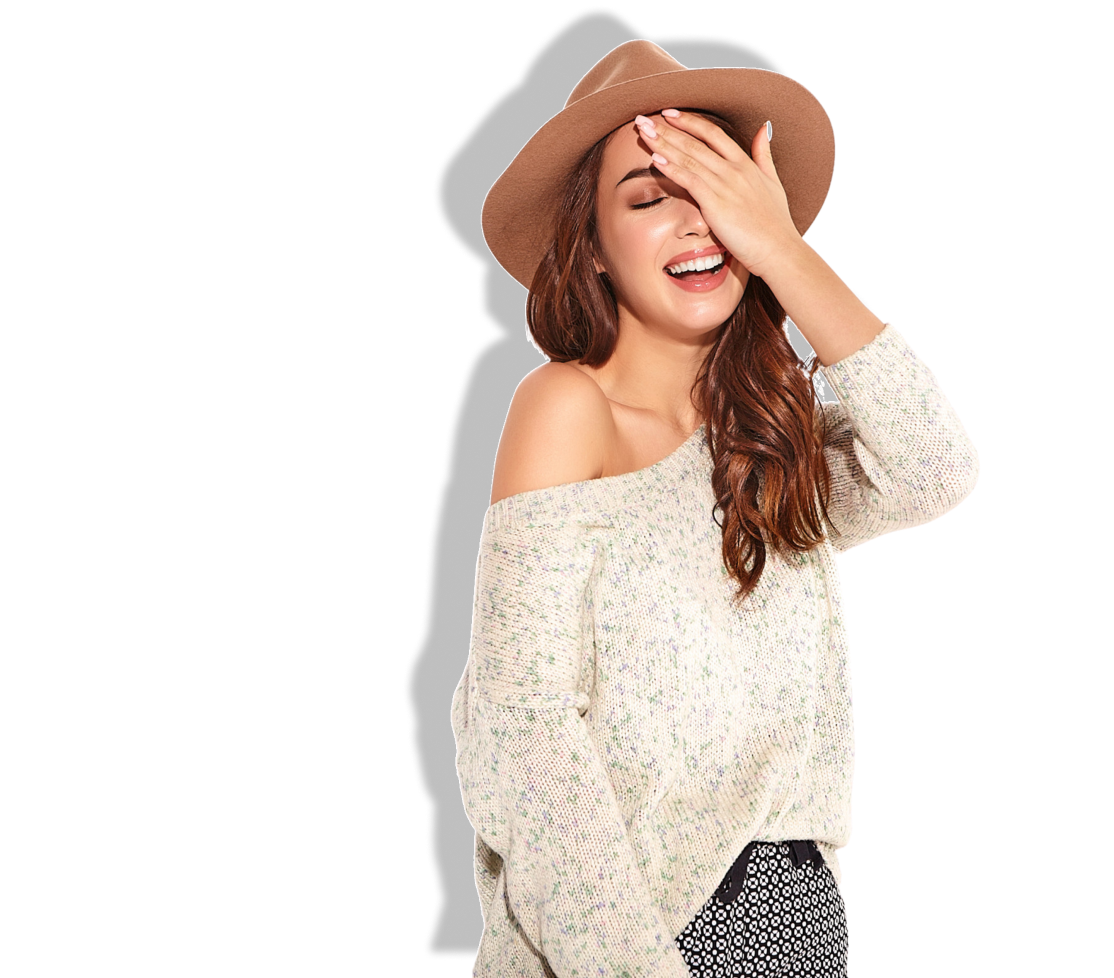
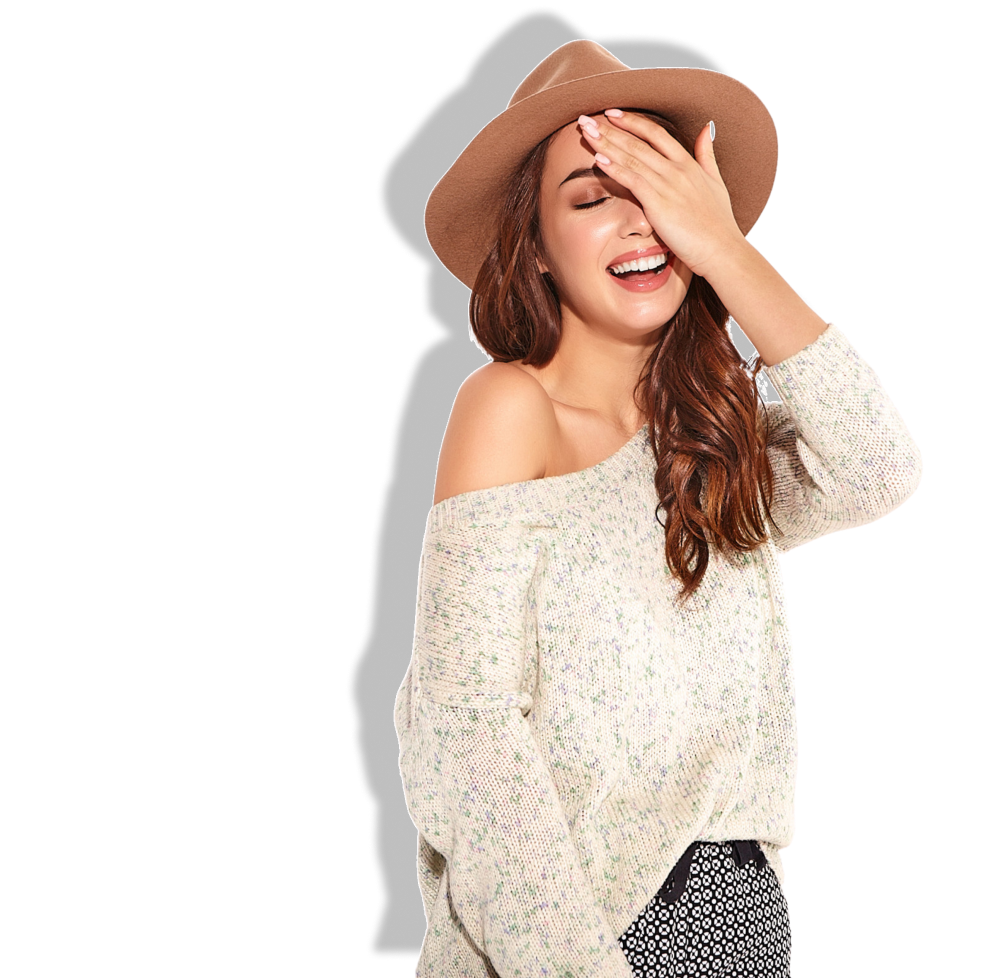
new section update

Changed region(s): [[0.34, 0.0307, 0.9272, 1.0], [0.4636, 0.1227, 0.4945, 0.1534], [0.4327, 0.092, 0.4636, 0.1227]]

diff --git a/demo/fashion-four/css/style.css b/demo/fashion-four/css/style.css
@@ -53,22 +53,8 @@
     font-display: swap;
     font-family: 'Josefin Sans';
     font-style: normal;
-    font-weight: 500;
-    src: url('../fonts/josefin-sans/josefin-sans-v32-latin-500.woff2') format('woff2');
-}
-@font-face {
-    font-display: swap;
-    font-family: 'Josefin Sans';
-    font-style: normal;
     font-weight: 600;
     src: url('../fonts/josefin-sans/josefin-sans-v32-latin-600.woff2') format('woff2');
-}
-@font-face {
-    font-display: swap;
-    font-family: 'Josefin Sans';
-    font-style: normal;
-    font-weight: 700;
-    src: url('../fonts/josefin-sans/josefin-sans-v32-latin-700.woff2') format('woff2');
 }
 
 /* Default CSS */
@@ -77,7 +63,7 @@
     --main-color: #FF5047;
 
     /* Text Color */
-    --text-color: #13172B;
+    --text-color: #000;
 }
 
 * {
@@ -87,6 +73,17 @@
 
 html {
     scroll-behavior: smooth;
+}
+
+@media (min-width: 1400px) {
+    .container,
+    .container-lg,
+    .container-md,
+    .container-sm,
+    .container-xl,
+    .container-xxl {
+        max-width: 1705px;
+    }
 }
 
 body,
@@ -148,17 +145,16 @@ button:focus {
 }
 
 /* Buttons */
-.fsnf__button__a,
-.fsnf__button__b {
+.fsnf__button__a {
     position: relative;
-    font-size: 16px;
-    line-height: 24px;
-    font-weight: 600;
+    font-size: 30px;
+    line-height: 30px;
+    font-weight: 400;
     font-family: 'Jost', sans-serif;
-    padding: 10px 25px;
+    padding: 13px 30px;
     text-transform: capitalize;
     background: transparent;
-    border-radius: 5px;
+    border-radius: 50px;
     overflow: hidden;
     transition: 0.3s;
     -moz-transition: 0.3s;
@@ -167,52 +163,12 @@ button:focus {
     -o-transition: 0.3s;
     user-select: none;
     color: #FFF !important;
+    background: #8F7777;
     display: inline-block;
 }
 
-.fsnf__button__a::before,
-.fsnf__button__b::before {
-    position: absolute;
-    content: '';
-    top: 0;
-    left: 0;
-    z-index: -2;
-    width: 100%;
-    height: 100%;
-    background: #000;
-}
-
-.fsnf__button__a::after,
-.fsnf__button__b::after {
-    position: absolute;
-    top: 50%;
-    left: 50%;
-    transform: translate(-50%, -50%);
-    z-index: -1;
-    content: '';
-    height: 0;
-    width: 0;
-    transition: 0.3s;
-    -moz-transition: 0.3s;
-    -webkit-transition: 0.3s;
-    -ms-transition: 0.3s;
-    -o-transition: 0.3s;
-    border-radius: 5px;
-}
-
-.fsnf__button__a:hover::after,
-.fsnf__button__b:hover::after {
-    height: 100%;
-    width: 100%;
+.fsnf__button__a:hover {
     background: var(--main-color);
-}
-
-.fsnf__button__b::before {
-    background: var(--main-color);
-}
-
-.fsnf__button__b:hover::after {
-    background: #000;
 }
 
 /* Section Title */
@@ -901,7 +857,7 @@ input[type="radio"]:checked::before {
 .fsnf__header__wrapper .header__ctas .fsnf__cart__product h4 {
     font-size: 16px;
     line-height: 20px;
-    font-weight: 500;
+    font-weight: 400;
     font-family: 'Jost', sans-serif;
     text-transform: capitalize;
     border: none;
@@ -964,7 +920,7 @@ input[type="radio"]:checked::before {
 .quantity-increase {
     cursor: pointer;
     text-align: center;
-    font-weight: 500;
+    font-weight: 400;
     font-size: 20px;
 	line-height: 17px;
 	height: 20px;
@@ -1149,21 +1105,66 @@ input[type="radio"]:checked::before {
     height: 970px;
 }
 
-.fsnf__hero__wrapper img {
+.fsnf__hero__wrapper .bg__img {
     position: absolute;
     z-index: -1;
 }
 
-.fsnf__hero__wrapper img.bg__img1 {
+.fsnf__hero__wrapper .bg__img.bg1 {
     top: 50%;
     left: 50px;
     transform: translateY(-50%);
 }
 
-.fsnf__hero__wrapper img.bg__img2 {
+.fsnf__hero__wrapper .bg__img.bg2 {
     top: 0;
     left: 135px;
 }
+
+.fsnf__hero__wrapper .row {
+    height: 100%;
+}
+
+/* Right Side */
+.fsnf__hero__wrapper .left__side {
+    height: 100%;
+    padding: 0;
+}
+
+.fsnf__hero__wrapper .left__side img {
+    width: 100%;
+}
+
+/* Right Side */
+.fsnf__hero__wrapper .right__side {
+    display: flex;
+    justify-content: center;
+    align-items: flex-start;
+    flex-direction: column;
+    gap: 24px;
+    padding: 0;
+}
+
+.fsnf__hero__wrapper .right__side h2 {
+	font-size: 128px;
+	line-height: 128px;
+	font-weight: 600;
+    font-family: 'Josefin Sans', sans-serif;
+    margin: 0;
+}
+
+.fsnf__hero__wrapper .right__side p {
+    font-size: 20px;
+    line-height: 26px;
+    font-weight: 400;
+    font-family: 'Jost', sans-serif;
+    margin: 0;
+}
+
+.fsnf__hero__wrapper .right__side .fsnf__button__a {
+    box-shadow: 0 0 10px rgba(0, 0, 0, 0.2);
+}
+
 /*** End of Hero Section ***/
 
 

diff --git a/demo/fashion-four/index.html b/demo/fashion-four/index.html
@@ -466,8 +466,18 @@
     <section class="fsnf__hero__section">
         <div class="container">
             <div class="fsnf__hero__wrapper">
-                <img src="image/hero-section/bg-1.svg" alt="Background Image" class="bg__img1">
-                <img src="image/hero-section/bg-2.svg" alt="Background Image" class="bg__img2">
+                <img src="image/hero-section/bg-1.svg" alt="Background Image" class="bg__img bg1">
+                <img src="image/hero-section/bg-2.svg" alt="Background Image" class="bg__img bg2">
+                <div class="row">
+                    <div class="col-md-7 left__side">
+                        <img src="image/hero-section/hero-img.png" alt="promo image">
+                    </div>
+                    <div class="col-md-5 right__side">
+                        <h2>Discover Your Style</h2>
+                        <p>Explore our vibrant collection of stylish clothing that celebrates individuality and creativity. From bold prints to elegant designs, find the perfect outfit to express your unique personality</p>
+                        <a href="shop.html" class="fsnf__button__a">show now</a>
+                    </div>
+                </div>
             </div>
         </div>
     </section>
